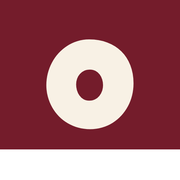
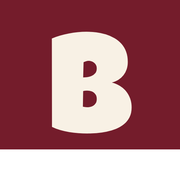
Bygg om sajten enligt feedback: Banbrytarna som huvudidentitet
- Banbrytarna är föreningen, Ordfesten ett projekt: ny ordbild, ny struktur
- Nya sidor: Om oss (bakgrund + team), Vår verksamhet (ungdomsnätverket,
  media), Ordfesten (om projektet, 2026, anmäl klass, skicka bidrag,
  2025-arkiv), Aktiviteter, För företag
- Ordfesten 2026: tema "Om jag fick bestämma", tävlingsregler och period,
  fyra författare, två jurygrupper, prisgalorna i november
- Aktiviteter: writing camp, poesikväll, författarmöten, skrivworkshops,
  läslov v44 + kommande läger, med anmälningsformulär
- För företag: boka oss (workshops, föreläsning, poesi), fyra partnerskap,
  sex samarbetspartners
- Bidragsformuläret tar flera filer och antal bidrag, mejlväg som alternativ
- Nya varumärkes-assets (og-bild, favicon) och uppdaterad README

Claude-Session: https://claude.ai/code/session_01Pi2PmEFwrVibhK6jiRXvoj

Changed region(s): [[0.25, 0.1667, 0.75, 0.75], [0.4167, 0.3333, 0.5833, 0.6111]]

diff --git a/README.md b/README.md
@@ -1,26 +1,27 @@
-# Botkyrkas Ordfest – hemsida
+# Banbrytarna – hemsida
 
-Statisk hemsida för **Botkyrkas Ordfest**, ett läsfrämjande projekt som drivs av
-föreningen **Banbrytarna**. Sajten är byggd i ren HTML/CSS/JS utan byggsteg –
-lätt att hosta, lätt att redigera.
+Statisk hemsida för föreningen **Banbrytarna** – en läsfrämjande förening som
+ger ordet till nästa generation. Här presenteras föreningen, ungdomsnätverket,
+aktiviteterna och **Ordfesten**, Banbrytarnas årliga läs- och skrivfestival för
+unga i Botkyrka. Byggd i ren HTML/CSS/JS utan byggsteg – lätt att hosta, lätt
+att redigera.
 
 ## Struktur
 
 | Fil | Innehåll |
 |---|---|
-| `index.html` | Startsida – hero, siffror, "Så fungerar det", årets tema, nyheter, partners |
-| `om.html` | Om Botkyrkas Ordfest & Banbrytarna |
-| `for-skolor.html` | Info för skolor + intresseanmälan |
-| `for-larare.html` | Lärarmaterial, viktiga datum, inlämning av bidrag, FAQ |
-| `arets-forfattare.html` | Årets författare |
-| `arets-jury.html` | Årets jury |
-| `prisgalan.html` | Prisgalan + fotogalleri |
-| `antologin.html` | Antologin (samarbete med Bokusgruppen) |
-| `unga-roster.html` | Publicerade elevtexter |
-| `tidigare-vinnare.html` | Vinnare år för år |
-| `samarbeten.html` | För sponsorer och partners |
-| `nyheter.html` | Nyheter |
+| `index.html` | Startsida – vision, verksamhetsrutor, årets tema, siffror, media, partners |
+| `om-oss.html` | Bakgrund (Nora Khalil & Yani) + teamet |
+| `var-verksamhet.html` | Hur vi arbetar, ungdomsnätverket, media/nyheter |
+| `ordfesten.html` | Ordfesten – om projektet |
+| `ordfesten-2026.html` | Årets tema, författare, två jurygrupper, prisgalorna |
+| `anmal-klass.html` | Intresseanmälan för klasser (2026 stängd, 2027 öppnar vårterminen) |
+| `skicka-bidrag.html` | Instruktioner + formulär för tävlingsbidrag (flera filer) |
+| `ordfesten-2025.html` | Arkiv – galleri och siffror från första upplagan |
+| `aktiviteter.html` | Writing camp, poesikväll, författarmöten, skrivworkshops, läslov + anmälan |
+| `for-foretag.html` | Boka oss, bli partner, samarbetspartners |
 | `kontakt.html` | Kontaktuppgifter + formulär |
+| `tack.html` | Tacksida efter formulärinskick |
 | `css/` | `style.css` (all styling) och `fonts.css` (självhostade typsnitt) |
 | `js/main.js` | Mobilmeny, dropdowns, scroll-animationer |
 | `assets/img/` | Optimerade foton (+ `thumbs/` för galleriet) |
@@ -30,45 +31,38 @@ lätt att hosta, lätt att redigera.
 
 - **Vinröd/bordeaux** `#741c2b` (primär), mörkare toner för footer/text
 - **Guld** `#c9a15e` (accent), **varm off-white** `#fdfaf4` (bakgrund)
-- Logotypen är återskapad som inline-SVG (bågformad text i Luckiest Guy)
-  direkt i sidhuvud/sidfot – byt gärna mot original-logotypen som SVG/PNG
-  om ni har den som fil.
+- Två ordbilder som inline-SVG (bågformad text i Luckiest Guy):
+  **Banbrytarna** i sidhuvud/sidfot och **Botkyrkas Ordfest** på Ordfest-sidorna.
+  Byt gärna mot originallogotyper som SVG/PNG när de finns som filer.
 - Typsnitten hostas lokalt (bra för GDPR – inga anrop till Google Fonts).
 
 ## Formulären
 
-Alla tre formulär (intresseanmälan, inlämning av bidrag, kontakt) postar till
-[FormSubmit](https://formsubmit.co) som vidarebefordrar till
-`botkyrkasordfest@gmail.com`.
+Alla formulär (klassanmälan, bidragsinlämning, aktivitetsanmälan, kontakt)
+postar till [FormSubmit](https://formsubmit.co) som vidarebefordrar till
+`botkyrkasordfest@gmail.com`, och skickar sedan besökaren till `tack.html`.
 
 **Viktigt första gången:** när det första formuläret skickas in mejlar
 FormSubmit en aktiveringslänk till er adress – klicka på den, därefter
-levereras alla svar. Vill ni hellre använda t.ex. Google Forms är det bara att
-byta `action`-attributet i formulären.
+levereras alla svar.
 
-Filuppladdningen för tävlingsbidrag har en storleksbegränsning hos FormSubmit.
-För större volymer av bidrag rekommenderas på sikt en dedikerad
-formulärtjänst eller delad inlämningsmapp.
+Bidragsformuläret tillåter flera bifogade filer (en fil per elev).
+FormSubmit har en storleksgräns per inskick – vid stora klasser kan mejlvägen
+(instruktionerna på sidan) användas som alternativ.
 
-## Att uppdatera innehåll
+## Innehåll som väntar på material
 
-Sidorna är vanlig HTML – öppna filen och redigera texten. Platser som väntar
-på riktigt innehåll är markerade med "Presenteras snart" / "publiceras här":
-
-- Årets tema (index + för lärare)
-- Årets författare och jury (namn, foton, beskrivningar)
-- Viktiga datum (exakta datum)
-- Vinnarlistor, antologier och elevtexter
-- Partnerlogotyper (byt ut "Din logotyp här?"-rutorna)
-
-Nya foton: lägg en webboptimerad kopia (max ~1800 px) i `assets/img/`.
+- Teamfoton (`om-oss.html`) och jurybilder (`ordfesten-2026.html`)
+- Filmen om Ordfesten (platshållare på `index.html` och `var-verksamhet.html`)
+- Datum/tider för writing camp, poesikvällar m.m. (`aktiviteter.html`)
+- Partnerlogotyper (idag text-chips på `index.html`/`for-foretag.html`)
+- Styrelse och advisory board är medvetet utelämnade tills vidare
 
 ## Hosting
 
-Sajten är helt statisk och kan hostas var som helst – GitHub Pages, Netlify,
-Vercel eller valfritt webbhotell. För GitHub Pages: aktivera Pages för
-repot (Settings → Pages → Deploy from branch) så fungerar allt direkt
-(`.nojekyll` ligger redan i roten).
+Sajten är helt statisk – GitHub Pages, Vercel, Netlify eller valfritt
+webbhotell fungerar (`.nojekyll` ligger i roten). Domän: `banbrytarna.se`
+(og-taggar och canonical pekar dit).
 
 ## Bildrättigheter
 
